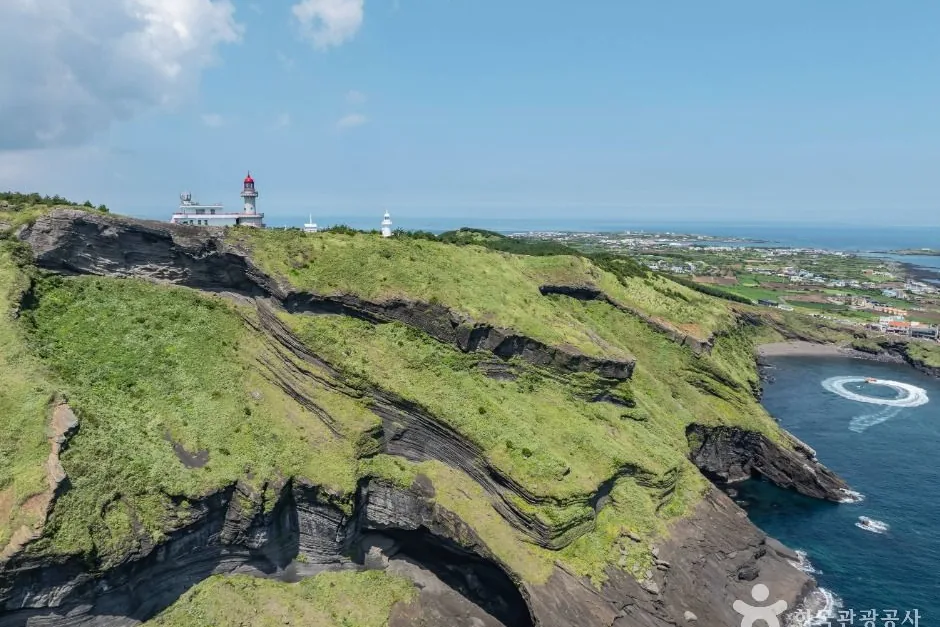
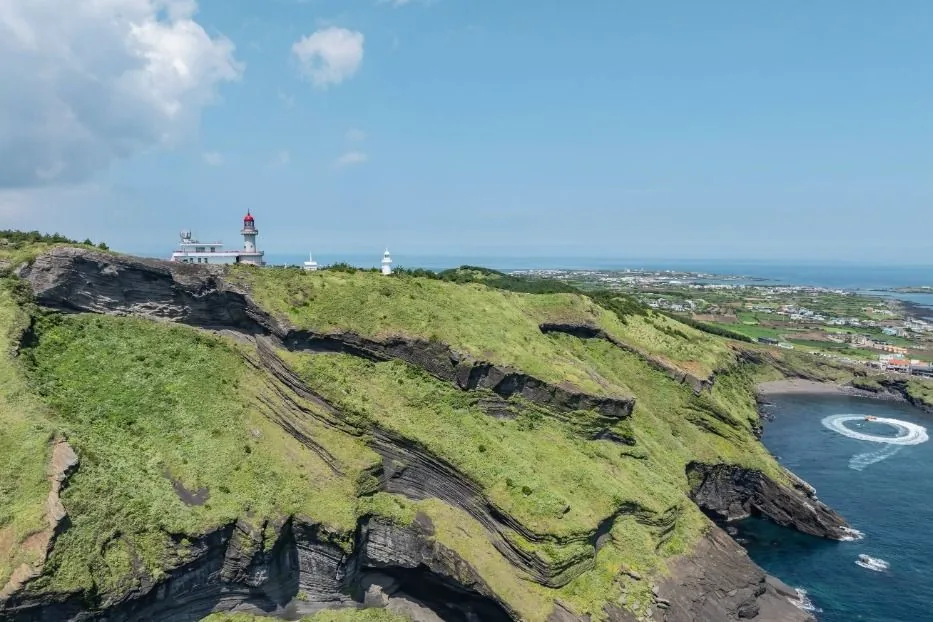
엽서 사진 20장을 새로 받은 사진으로 다시 넣기
- 사용자가 준 새 폴더(한경_제주도/웹진/3팀웹진이미지 모음)의 사진을 같은 방식(3:2, 폭 1200px까지, webp 82)으로
  - 대부분 한국관광공사 로고 부분이 잘려 나간 사진, 08·09는 워터마크가 지워진 PNG
  - 06은 다른 사진(방파제 위 하얀 말 등대): 말 등대가 들어가게 잘랐고 사진 설명(alt)도 바꿈
  - 02·03·05·17·20은 같은 파일이라 결과도 같음
- 같은 이름이라 data-photo 주소에 ?v=2 (휴대폰 캐시)
- credits.txt: 새 파일 설명으로 고침. 저작권·사용 조건은 여전히 확인 필요

diff --git a/public/index.html b/public/index.html
@@ -192,26 +192,26 @@
            누르면 팝업으로 크게 보인다. 사진을 받기 전까지는 무늬가 그림 자리를 채운다 -->
       <div class="pick__cards">
       <div class="pick__world">
-          <button class="pcard pcard--post pcard--d01" type="button" data-no="01" data-place="구두미포구" data-why="스노쿨링하기 좋아요" data-word="이주까지 가기 전에, 먼저 제주살이를 경험해보는 걸 추천해요." data-photo="images/postcard-01.webp" data-photo-alt="구두미포구: 작은 배들이 떠 있는 포구에서 사람들이 물놀이를 하고, 멀리 섬이 보인다" aria-label="제주생존한마디 01 · 구두미포구 엽서 열기"><span class="pcard__label" aria-hidden="true">이주민의 한 문장</span><span class="pcard__word" aria-hidden="true">이주까지 가기 전에, 먼저 제주살이를 경험해보는 걸 추천해요.</span></button>
-          <button class="pcard pcard--post pcard--d02" type="button" data-no="02" data-place="비양도" data-why="어려움이 있을 때 조용한 섬에서 시간을 보내면 마음이 편안해져요" data-word="현실적인 부분을 충분히 준비한다면 계획했던 로망을 실현하며 만족도 높은 제주살이를 할 수 있어요." data-photo="images/postcard-02.webp" data-photo-alt="파도치는 바다 너머로 보이는 비양도" aria-label="제주생존한마디 02 · 비양도 엽서 열기"><span class="pcard__label" aria-hidden="true">이주민의 한 문장</span><span class="pcard__word" aria-hidden="true">현실적인 부분을 충분히 준비한다면 계획했던 로망을 실현하며 만족도 높은 제주살이를 할 수 있어요.</span></button>
-          <button class="pcard pcard--post pcard--d03" type="button" data-no="03" data-place="협재해수욕장" data-why="가족과 다 같이 산책하며 힐링하는 장소예요" data-word="혼자라면 외로울 수 있지만, 가족과 함께이고 도시를 좋아하지 않는 사람이라면 행복하게 살 수 있는 곳이에요. 인프라는 부족해도 그만큼 자연이 있고, 강아지와 살기에도 좋아요." data-photo="images/postcard-03.webp" data-photo-alt="하늘에서 내려다본 협재해수욕장의 옥빛 바다와 하얀 모래사장" aria-label="제주생존한마디 03 · 협재해수욕장 엽서 열기"><span class="pcard__label" aria-hidden="true">이주민의 한 문장</span><span class="pcard__word" aria-hidden="true">혼자라면 외로울 수 있지만, 가족과 함께이고 도시를 좋아하지 않는 사람이라면 행복하게 살 수 있는 곳이에요. 인프라는 부족해도 그만큼 자연이 있고, 강아지와 살기에도 좋아요.</span></button>
-          <button class="pcard pcard--post pcard--d04" type="button" data-no="04" data-place="신창풍차해안도로" data-why="노을과 풍차, 바다를 함께 즐길 수 있는 명소예요 (오징어도 팔아요!)" data-word="이주를 결정하기 전에 먼저 내려와서 지내보는 걸 추천해요." data-photo="images/postcard-04.webp" data-photo-alt="하늘에서 내려다본 신창풍차해안도로: 바다 위에 풍차가 줄지어 서 있다" aria-label="제주생존한마디 04 · 신창풍차해안도로 엽서 열기"><span class="pcard__label" aria-hidden="true">이주민의 한 문장</span><span class="pcard__word" aria-hidden="true">이주를 결정하기 전에 먼저 내려와서 지내보는 걸 추천해요.</span></button>
-          <button class="pcard pcard--post pcard--d05" type="button" data-no="05" data-place="평화로" data-why="아침저녁 출근길 풍경이 아름다워서 하루의 시작과 끝이 즐거워요" data-word="고민하는 시간보다 일단 실행해보는 게 더 중요해요." data-photo="images/postcard-05.webp" data-photo-alt="평화로: 단풍 든 나무 사이로 굽어 가는 도로, 멀리 산이 보인다" aria-label="제주생존한마디 05 · 평화로 엽서 열기"><span class="pcard__label" aria-hidden="true">이주민의 한 문장</span><span class="pcard__word" aria-hidden="true">고민하는 시간보다 일단 실행해보는 게 더 중요해요.</span></button>
-          <button class="pcard pcard--post pcard--d06" type="button" data-no="06" data-place="이호테우" data-why="처음 일을 시작했던 곳이자 로망 실현의 첫 시작이었어요" data-word="외로움을 많이 타지 않고 직장생활에 큰 야망이 있는 게 아니라면, 제주살이를 잘 즐기실 수 있을 것 같아요." data-photo="images/postcard-06.webp" data-photo-alt="이호테우해변의 모래사장과 파란 바다, 빨간 등대" aria-label="제주생존한마디 06 · 이호테우 엽서 열기"><span class="pcard__label" aria-hidden="true">이주민의 한 문장</span><span class="pcard__word" aria-hidden="true">외로움을 많이 타지 않고 직장생활에 큰 야망이 있는 게 아니라면, 제주살이를 잘 즐기실 수 있을 것 같아요.</span></button>
-          <button class="pcard pcard--post pcard--d07" type="button" data-no="07" data-place="우도" data-why="너무 아름다운 풍경" data-word="버킷리스트였던 제주살이를 이뤘고, 정말 만족스러워요." data-photo="images/postcard-07.webp" data-photo-alt="하늘에서 내려다본 우도의 초록 언덕과 바닷가 절벽, 하얀 등대" aria-label="제주생존한마디 07 · 우도 엽서 열기"><span class="pcard__label" aria-hidden="true">이주민의 한 문장</span><span class="pcard__word" aria-hidden="true">버킷리스트였던 제주살이를 이뤘고, 정말 만족스러워요.</span></button>
-          <button class="pcard pcard--post pcard--d08" type="button" data-no="08" data-place="다랑쉬오름" data-why="한눈에 보이는 제주와 바다의 전경을 보며 공허한 마음에 큰 위안을 느꼈어요" data-word="고민만 하지 말고 일단 와보세요. 와서 지내다 보면 어떻게든 살아져요." data-photo="images/postcard-08.webp" data-photo-alt="다랑쉬오름 위에서 내려다본 초록 분화구와 들판" aria-label="제주생존한마디 08 · 다랑쉬오름 엽서 열기"><span class="pcard__label" aria-hidden="true">이주민의 한 문장</span><span class="pcard__word" aria-hidden="true">고민만 하지 말고 일단 와보세요. 와서 지내다 보면 어떻게든 살아져요.</span></button>
-          <button class="pcard pcard--post pcard--d09" type="button" data-no="09" data-place="이호테우해변" data-why="제주 생활을 시작하고 정착하는 데 도움을 받은 장소예요" data-word="이주 전에 한 달 살기를 먼저 해보는 걸 추천해요." data-photo="images/postcard-09.webp" data-photo-alt="이호테우해변의 빨간 말 등대와 하얀 말 등대" aria-label="제주생존한마디 09 · 이호테우해변 엽서 열기"><span class="pcard__label" aria-hidden="true">이주민의 한 문장</span><span class="pcard__word" aria-hidden="true">이주 전에 한 달 살기를 먼저 해보는 걸 추천해요.</span></button>
-          <button class="pcard pcard--post pcard--d10" type="button" data-no="10" data-place="사계" data-why="처음 제주에 와 살아본, 고향 같은 곳이에요" data-word="무언가를 내려놓을 용기만 있다면 제주살이는 충분히 시작할 수 있어요." data-photo="images/postcard-10.webp" data-photo-alt="사계: 하늘에서 내려다본 바닷가의 커다란 오름과 숲" aria-label="제주생존한마디 10 · 사계 엽서 열기"><span class="pcard__label" aria-hidden="true">이주민의 한 문장</span><span class="pcard__word" aria-hidden="true">무언가를 내려놓을 용기만 있다면 제주살이는 충분히 시작할 수 있어요.</span></button>
-          <button class="pcard pcard--post pcard--d11" type="button" data-no="11" data-place="우도" data-why="좋은 사람들과 함께한 추억이 많은 곳이에요" data-word="사람마다 맞고 안 맞는 게 달라서, 짧은 시간이라도 직접 와서 경험해보는 걸 추천해요." data-photo="images/postcard-11.webp" data-photo-alt="하늘에서 내려다본 우도 바닷가: 작은 섬과 마을이 다리로 이어져 있다" aria-label="제주생존한마디 11 · 우도 엽서 열기"><span class="pcard__label" aria-hidden="true">이주민의 한 문장</span><span class="pcard__word" aria-hidden="true">사람마다 맞고 안 맞는 게 달라서, 짧은 시간이라도 직접 와서 경험해보는 걸 추천해요.</span></button>
-          <button class="pcard pcard--post pcard--d12" type="button" data-no="12" data-place="대정 노을해안로" data-why="제주에 처음 내려와 가장 예쁜 노을을 보고 마음이 치유되는 느낌이었어요. 아직도 마음에 품고 있는 곳이에요" data-word="현실적인 부분, 특히 경제적인 측면을 먼저 꼼꼼히 따져보고 이주하길 바라요." data-photo="images/postcard-12.webp" data-photo-alt="대정 노을해안로 앞바다: 검은 바위에 부서지는 파도 너머로 돌고래들이 헤엄친다" aria-label="제주생존한마디 12 · 대정 노을해안로 엽서 열기"><span class="pcard__label" aria-hidden="true">이주민의 한 문장</span><span class="pcard__word" aria-hidden="true">현실적인 부분, 특히 경제적인 측면을 먼저 꼼꼼히 따져보고 이주하길 바라요.</span></button>
-          <button class="pcard pcard--post pcard--d13" type="button" data-no="13" data-place="해안도로 산책길" data-why="고요하게 걷는 길이 평화롭게 해줬어요" data-word="이주는 지역이나 국가가 달라도 결국 일상을 다시 구성하는 일이에요. 뚜렷한 주관과 생활력만 있다면 제주 생활도 다른 지방도시와 크게 다르지 않게 느껴질 거예요." data-photo="images/postcard-13.webp" data-photo-alt="하얀 모래와 검은 현무암 바닷가를 따라 난 해안도로 산책길" aria-label="제주생존한마디 13 · 해안도로 산책길 엽서 열기"><span class="pcard__label" aria-hidden="true">이주민의 한 문장</span><span class="pcard__word" aria-hidden="true">이주는 지역이나 국가가 달라도 결국 일상을 다시 구성하는 일이에요. 뚜렷한 주관과 생활력만 있다면 제주 생활도 다른 지방도시와 크게 다르지 않게 느껴질 거예요.</span></button>
-          <button class="pcard pcard--post pcard--d14" type="button" data-no="14" data-place="보목포구" data-why="다이빙, 러닝하는 사람들을 보면 일상과 관광 그 어딘가의 낭만이 느껴져요" data-word="기후, 사람, 생활 모든 게 일상이 되는 순간 달라지니, 먼저 경험해보고 결정하는 걸 추천해요." data-photo="images/postcard-14.webp" data-photo-alt="보목포구 방파제의 빨간 등대와 바다 건너 초록 섬" aria-label="제주생존한마디 14 · 보목포구 엽서 열기"><span class="pcard__label" aria-hidden="true">이주민의 한 문장</span><span class="pcard__word" aria-hidden="true">기후, 사람, 생활 모든 게 일상이 되는 순간 달라지니, 먼저 경험해보고 결정하는 걸 추천해요.</span></button>
-          <button class="pcard pcard--post pcard--d15" type="button" data-no="15" data-place="표선해수욕장" data-why="나 자신이 콘텐츠가 되는 사람들의 천국이에요" data-word="제주에서 만나는 사람들은 상상 그 이상이에요." data-photo="images/postcard-15.webp" data-photo-alt="표선해수욕장의 넓은 모래사장과 얕은 바다, 구름 낀 하늘" aria-label="제주생존한마디 15 · 표선해수욕장 엽서 열기"><span class="pcard__label" aria-hidden="true">이주민의 한 문장</span><span class="pcard__word" aria-hidden="true">제주에서 만나는 사람들은 상상 그 이상이에요.</span></button>
-          <button class="pcard pcard--post pcard--d16" type="button" data-no="16" data-place="김녕 바다 (해수욕장 가기 전)" data-why="힘들고 외로울 때마다 가서 바다멍을 하며 버텼고, 해녀 삼춘들을 보며 꿈을 키웠어요" data-word="적당한 환상과 낭만을 갖고, 직장이든 집이든 준비해서 오세요. 육지에서의 기준은 내려놓으세요. 임금은 싸고 물가는 비싸고 즐길거리는 적지만, 현실과 타협하며 버티다 보면 육지에선 못 하는 진짜 제주를 만날 수 있어요." data-photo="images/postcard-16.webp" data-photo-alt="하늘에서 내려다본 김녕 바닷가 마을과 해변" aria-label="제주생존한마디 16 · 김녕 바다 (해수욕장 가기 전) 엽서 열기"><span class="pcard__label" aria-hidden="true">이주민의 한 문장</span><span class="pcard__word" aria-hidden="true">적당한 환상과 낭만을 갖고, 직장이든 집이든 준비해서 오세요. 육지에서의 기준은 내려놓으세요. 임금은 싸고 물가는 비싸고 즐길거리는 적지만, 현실과 타협하며 버티다 보면 육지에선 못 하는 진짜 제주를 만날 수 있어요.</span></button>
-          <button class="pcard pcard--post pcard--d17" type="button" data-no="17" data-place="송악산" data-why="노을" data-word="여행으로 보는 제주와 살아가는 제주는 다르다는 점을 알고 결정하세요." data-photo="images/postcard-17.webp" data-photo-alt="송악산 언덕에서 바라본 초록 비탈과 파란 바다" aria-label="제주생존한마디 17 · 송악산 엽서 열기"><span class="pcard__label" aria-hidden="true">이주민의 한 문장</span><span class="pcard__word" aria-hidden="true">여행으로 보는 제주와 살아가는 제주는 다르다는 점을 알고 결정하세요.</span></button>
-          <button class="pcard pcard--post pcard--d18" type="button" data-no="18" data-place="가파도" data-why="섬 자체가 정말 아름다워요" data-word="일자리를 확보하고 내려오고, 제주에서 경제적으로 어렵게 지내지 않도록 준비하세요." data-photo="images/postcard-18.webp" data-photo-alt="잔잔한 바다 위에 낮게 떠 있는 가파도" aria-label="제주생존한마디 18 · 가파도 엽서 열기"><span class="pcard__label" aria-hidden="true">이주민의 한 문장</span><span class="pcard__word" aria-hidden="true">일자리를 확보하고 내려오고, 제주에서 경제적으로 어렵게 지내지 않도록 준비하세요.</span></button>
-          <button class="pcard pcard--post pcard--d19" type="button" data-no="19" data-place="엉또폭포" data-why="폭포가 터지기 전의 긴장감과 기다림, 조금씩 흘러내리다 터졌을 때의 신비로움이 있어요" data-word="경제적 여건이 충분하지 않거나 이곳에서 사업을 할 계획이라면 다시 한번 생각해보세요. 떠나는 사람도 많이 봤고, 병원 인프라는 아쉬워요." data-photo="images/postcard-19.webp" data-photo-alt="울창한 숲 사이로 하얗게 떨어지는 엉또폭포" aria-label="제주생존한마디 19 · 엉또폭포 엽서 열기"><span class="pcard__label" aria-hidden="true">이주민의 한 문장</span><span class="pcard__word" aria-hidden="true">경제적 여건이 충분하지 않거나 이곳에서 사업을 할 계획이라면 다시 한번 생각해보세요. 떠나는 사람도 많이 봤고, 병원 인프라는 아쉬워요.</span></button>
-          <button class="pcard pcard--post pcard--d20" type="button" data-no="20" data-place="성산일출봉" data-why="이별과 퇴사 후 처음 찾은 곳이에요. 오르면서 잡생각이 사라지고 풍경에 반해 이주까지 했어요" data-word="고민만 하기보다 도전해봐도 괜찮은 도시예요 :)" data-photo="images/postcard-20.webp" data-photo-alt="풀밭에서 풀을 뜯는 말과 그 뒤로 보이는 성산일출봉" aria-label="제주생존한마디 20 · 성산일출봉 엽서 열기"><span class="pcard__label" aria-hidden="true">이주민의 한 문장</span><span class="pcard__word" aria-hidden="true">고민만 하기보다 도전해봐도 괜찮은 도시예요 :)</span></button>
+          <button class="pcard pcard--post pcard--d01" type="button" data-no="01" data-place="구두미포구" data-why="스노쿨링하기 좋아요" data-word="이주까지 가기 전에, 먼저 제주살이를 경험해보는 걸 추천해요." data-photo="images/postcard-01.webp?v=2" data-photo-alt="구두미포구: 작은 배들이 떠 있는 포구에서 사람들이 물놀이를 하고, 멀리 섬이 보인다" aria-label="제주생존한마디 01 · 구두미포구 엽서 열기"><span class="pcard__label" aria-hidden="true">이주민의 한 문장</span><span class="pcard__word" aria-hidden="true">이주까지 가기 전에, 먼저 제주살이를 경험해보는 걸 추천해요.</span></button>
+          <button class="pcard pcard--post pcard--d02" type="button" data-no="02" data-place="비양도" data-why="어려움이 있을 때 조용한 섬에서 시간을 보내면 마음이 편안해져요" data-word="현실적인 부분을 충분히 준비한다면 계획했던 로망을 실현하며 만족도 높은 제주살이를 할 수 있어요." data-photo="images/postcard-02.webp?v=2" data-photo-alt="파도치는 바다 너머로 보이는 비양도" aria-label="제주생존한마디 02 · 비양도 엽서 열기"><span class="pcard__label" aria-hidden="true">이주민의 한 문장</span><span class="pcard__word" aria-hidden="true">현실적인 부분을 충분히 준비한다면 계획했던 로망을 실현하며 만족도 높은 제주살이를 할 수 있어요.</span></button>
+          <button class="pcard pcard--post pcard--d03" type="button" data-no="03" data-place="협재해수욕장" data-why="가족과 다 같이 산책하며 힐링하는 장소예요" data-word="혼자라면 외로울 수 있지만, 가족과 함께이고 도시를 좋아하지 않는 사람이라면 행복하게 살 수 있는 곳이에요. 인프라는 부족해도 그만큼 자연이 있고, 강아지와 살기에도 좋아요." data-photo="images/postcard-03.webp?v=2" data-photo-alt="하늘에서 내려다본 협재해수욕장의 옥빛 바다와 하얀 모래사장" aria-label="제주생존한마디 03 · 협재해수욕장 엽서 열기"><span class="pcard__label" aria-hidden="true">이주민의 한 문장</span><span class="pcard__word" aria-hidden="true">혼자라면 외로울 수 있지만, 가족과 함께이고 도시를 좋아하지 않는 사람이라면 행복하게 살 수 있는 곳이에요. 인프라는 부족해도 그만큼 자연이 있고, 강아지와 살기에도 좋아요.</span></button>
+          <button class="pcard pcard--post pcard--d04" type="button" data-no="04" data-place="신창풍차해안도로" data-why="노을과 풍차, 바다를 함께 즐길 수 있는 명소예요 (오징어도 팔아요!)" data-word="이주를 결정하기 전에 먼저 내려와서 지내보는 걸 추천해요." data-photo="images/postcard-04.webp?v=2" data-photo-alt="하늘에서 내려다본 신창풍차해안도로: 바다 위에 풍차가 줄지어 서 있다" aria-label="제주생존한마디 04 · 신창풍차해안도로 엽서 열기"><span class="pcard__label" aria-hidden="true">이주민의 한 문장</span><span class="pcard__word" aria-hidden="true">이주를 결정하기 전에 먼저 내려와서 지내보는 걸 추천해요.</span></button>
+          <button class="pcard pcard--post pcard--d05" type="button" data-no="05" data-place="평화로" data-why="아침저녁 출근길 풍경이 아름다워서 하루의 시작과 끝이 즐거워요" data-word="고민하는 시간보다 일단 실행해보는 게 더 중요해요." data-photo="images/postcard-05.webp?v=2" data-photo-alt="평화로: 단풍 든 나무 사이로 굽어 가는 도로, 멀리 산이 보인다" aria-label="제주생존한마디 05 · 평화로 엽서 열기"><span class="pcard__label" aria-hidden="true">이주민의 한 문장</span><span class="pcard__word" aria-hidden="true">고민하는 시간보다 일단 실행해보는 게 더 중요해요.</span></button>
+          <button class="pcard pcard--post pcard--d06" type="button" data-no="06" data-place="이호테우" data-why="처음 일을 시작했던 곳이자 로망 실현의 첫 시작이었어요" data-word="외로움을 많이 타지 않고 직장생활에 큰 야망이 있는 게 아니라면, 제주살이를 잘 즐기실 수 있을 것 같아요." data-photo="images/postcard-06.webp?v=2" data-photo-alt="이호테우해변 방파제 위에 선 하얀 말 등대와 파란 바다" aria-label="제주생존한마디 06 · 이호테우 엽서 열기"><span class="pcard__label" aria-hidden="true">이주민의 한 문장</span><span class="pcard__word" aria-hidden="true">외로움을 많이 타지 않고 직장생활에 큰 야망이 있는 게 아니라면, 제주살이를 잘 즐기실 수 있을 것 같아요.</span></button>
+          <button class="pcard pcard--post pcard--d07" type="button" data-no="07" data-place="우도" data-why="너무 아름다운 풍경" data-word="버킷리스트였던 제주살이를 이뤘고, 정말 만족스러워요." data-photo="images/postcard-07.webp?v=2" data-photo-alt="하늘에서 내려다본 우도의 초록 언덕과 바닷가 절벽, 하얀 등대" aria-label="제주생존한마디 07 · 우도 엽서 열기"><span class="pcard__label" aria-hidden="true">이주민의 한 문장</span><span class="pcard__word" aria-hidden="true">버킷리스트였던 제주살이를 이뤘고, 정말 만족스러워요.</span></button>
+          <button class="pcard pcard--post pcard--d08" type="button" data-no="08" data-place="다랑쉬오름" data-why="한눈에 보이는 제주와 바다의 전경을 보며 공허한 마음에 큰 위안을 느꼈어요" data-word="고민만 하지 말고 일단 와보세요. 와서 지내다 보면 어떻게든 살아져요." data-photo="images/postcard-08.webp?v=2" data-photo-alt="다랑쉬오름 위에서 내려다본 초록 분화구와 들판" aria-label="제주생존한마디 08 · 다랑쉬오름 엽서 열기"><span class="pcard__label" aria-hidden="true">이주민의 한 문장</span><span class="pcard__word" aria-hidden="true">고민만 하지 말고 일단 와보세요. 와서 지내다 보면 어떻게든 살아져요.</span></button>
+          <button class="pcard pcard--post pcard--d09" type="button" data-no="09" data-place="이호테우해변" data-why="제주 생활을 시작하고 정착하는 데 도움을 받은 장소예요" data-word="이주 전에 한 달 살기를 먼저 해보는 걸 추천해요." data-photo="images/postcard-09.webp?v=2" data-photo-alt="이호테우해변의 빨간 말 등대와 하얀 말 등대" aria-label="제주생존한마디 09 · 이호테우해변 엽서 열기"><span class="pcard__label" aria-hidden="true">이주민의 한 문장</span><span class="pcard__word" aria-hidden="true">이주 전에 한 달 살기를 먼저 해보는 걸 추천해요.</span></button>
+          <button class="pcard pcard--post pcard--d10" type="button" data-no="10" data-place="사계" data-why="처음 제주에 와 살아본, 고향 같은 곳이에요" data-word="무언가를 내려놓을 용기만 있다면 제주살이는 충분히 시작할 수 있어요." data-photo="images/postcard-10.webp?v=2" data-photo-alt="사계: 하늘에서 내려다본 바닷가의 커다란 오름과 숲" aria-label="제주생존한마디 10 · 사계 엽서 열기"><span class="pcard__label" aria-hidden="true">이주민의 한 문장</span><span class="pcard__word" aria-hidden="true">무언가를 내려놓을 용기만 있다면 제주살이는 충분히 시작할 수 있어요.</span></button>
+          <button class="pcard pcard--post pcard--d11" type="button" data-no="11" data-place="우도" data-why="좋은 사람들과 함께한 추억이 많은 곳이에요" data-word="사람마다 맞고 안 맞는 게 달라서, 짧은 시간이라도 직접 와서 경험해보는 걸 추천해요." data-photo="images/postcard-11.webp?v=2" data-photo-alt="하늘에서 내려다본 우도 바닷가: 작은 섬과 마을이 다리로 이어져 있다" aria-label="제주생존한마디 11 · 우도 엽서 열기"><span class="pcard__label" aria-hidden="true">이주민의 한 문장</span><span class="pcard__word" aria-hidden="true">사람마다 맞고 안 맞는 게 달라서, 짧은 시간이라도 직접 와서 경험해보는 걸 추천해요.</span></button>
+          <button class="pcard pcard--post pcard--d12" type="button" data-no="12" data-place="대정 노을해안로" data-why="제주에 처음 내려와 가장 예쁜 노을을 보고 마음이 치유되는 느낌이었어요. 아직도 마음에 품고 있는 곳이에요" data-word="현실적인 부분, 특히 경제적인 측면을 먼저 꼼꼼히 따져보고 이주하길 바라요." data-photo="images/postcard-12.webp?v=2" data-photo-alt="대정 노을해안로 앞바다: 검은 바위에 부서지는 파도 너머로 돌고래들이 헤엄친다" aria-label="제주생존한마디 12 · 대정 노을해안로 엽서 열기"><span class="pcard__label" aria-hidden="true">이주민의 한 문장</span><span class="pcard__word" aria-hidden="true">현실적인 부분, 특히 경제적인 측면을 먼저 꼼꼼히 따져보고 이주하길 바라요.</span></button>
+          <button class="pcard pcard--post pcard--d13" type="button" data-no="13" data-place="해안도로 산책길" data-why="고요하게 걷는 길이 평화롭게 해줬어요" data-word="이주는 지역이나 국가가 달라도 결국 일상을 다시 구성하는 일이에요. 뚜렷한 주관과 생활력만 있다면 제주 생활도 다른 지방도시와 크게 다르지 않게 느껴질 거예요." data-photo="images/postcard-13.webp?v=2" data-photo-alt="하얀 모래와 검은 현무암 바닷가를 따라 난 해안도로 산책길" aria-label="제주생존한마디 13 · 해안도로 산책길 엽서 열기"><span class="pcard__label" aria-hidden="true">이주민의 한 문장</span><span class="pcard__word" aria-hidden="true">이주는 지역이나 국가가 달라도 결국 일상을 다시 구성하는 일이에요. 뚜렷한 주관과 생활력만 있다면 제주 생활도 다른 지방도시와 크게 다르지 않게 느껴질 거예요.</span></button>
+          <button class="pcard pcard--post pcard--d14" type="button" data-no="14" data-place="보목포구" data-why="다이빙, 러닝하는 사람들을 보면 일상과 관광 그 어딘가의 낭만이 느껴져요" data-word="기후, 사람, 생활 모든 게 일상이 되는 순간 달라지니, 먼저 경험해보고 결정하는 걸 추천해요." data-photo="images/postcard-14.webp?v=2" data-photo-alt="보목포구 방파제의 빨간 등대와 바다 건너 초록 섬" aria-label="제주생존한마디 14 · 보목포구 엽서 열기"><span class="pcard__label" aria-hidden="true">이주민의 한 문장</span><span class="pcard__word" aria-hidden="true">기후, 사람, 생활 모든 게 일상이 되는 순간 달라지니, 먼저 경험해보고 결정하는 걸 추천해요.</span></button>
+          <button class="pcard pcard--post pcard--d15" type="button" data-no="15" data-place="표선해수욕장" data-why="나 자신이 콘텐츠가 되는 사람들의 천국이에요" data-word="제주에서 만나는 사람들은 상상 그 이상이에요." data-photo="images/postcard-15.webp?v=2" data-photo-alt="표선해수욕장의 넓은 모래사장과 얕은 바다, 구름 낀 하늘" aria-label="제주생존한마디 15 · 표선해수욕장 엽서 열기"><span class="pcard__label" aria-hidden="true">이주민의 한 문장</span><span class="pcard__word" aria-hidden="true">제주에서 만나는 사람들은 상상 그 이상이에요.</span></button>
+          <button class="pcard pcard--post pcard--d16" type="button" data-no="16" data-place="김녕 바다 (해수욕장 가기 전)" data-why="힘들고 외로울 때마다 가서 바다멍을 하며 버텼고, 해녀 삼춘들을 보며 꿈을 키웠어요" data-word="적당한 환상과 낭만을 갖고, 직장이든 집이든 준비해서 오세요. 육지에서의 기준은 내려놓으세요. 임금은 싸고 물가는 비싸고 즐길거리는 적지만, 현실과 타협하며 버티다 보면 육지에선 못 하는 진짜 제주를 만날 수 있어요." data-photo="images/postcard-16.webp?v=2" data-photo-alt="하늘에서 내려다본 김녕 바닷가 마을과 해변" aria-label="제주생존한마디 16 · 김녕 바다 (해수욕장 가기 전) 엽서 열기"><span class="pcard__label" aria-hidden="true">이주민의 한 문장</span><span class="pcard__word" aria-hidden="true">적당한 환상과 낭만을 갖고, 직장이든 집이든 준비해서 오세요. 육지에서의 기준은 내려놓으세요. 임금은 싸고 물가는 비싸고 즐길거리는 적지만, 현실과 타협하며 버티다 보면 육지에선 못 하는 진짜 제주를 만날 수 있어요.</span></button>
+          <button class="pcard pcard--post pcard--d17" type="button" data-no="17" data-place="송악산" data-why="노을" data-word="여행으로 보는 제주와 살아가는 제주는 다르다는 점을 알고 결정하세요." data-photo="images/postcard-17.webp?v=2" data-photo-alt="송악산 언덕에서 바라본 초록 비탈과 파란 바다" aria-label="제주생존한마디 17 · 송악산 엽서 열기"><span class="pcard__label" aria-hidden="true">이주민의 한 문장</span><span class="pcard__word" aria-hidden="true">여행으로 보는 제주와 살아가는 제주는 다르다는 점을 알고 결정하세요.</span></button>
+          <button class="pcard pcard--post pcard--d18" type="button" data-no="18" data-place="가파도" data-why="섬 자체가 정말 아름다워요" data-word="일자리를 확보하고 내려오고, 제주에서 경제적으로 어렵게 지내지 않도록 준비하세요." data-photo="images/postcard-18.webp?v=2" data-photo-alt="잔잔한 바다 위에 낮게 떠 있는 가파도" aria-label="제주생존한마디 18 · 가파도 엽서 열기"><span class="pcard__label" aria-hidden="true">이주민의 한 문장</span><span class="pcard__word" aria-hidden="true">일자리를 확보하고 내려오고, 제주에서 경제적으로 어렵게 지내지 않도록 준비하세요.</span></button>
+          <button class="pcard pcard--post pcard--d19" type="button" data-no="19" data-place="엉또폭포" data-why="폭포가 터지기 전의 긴장감과 기다림, 조금씩 흘러내리다 터졌을 때의 신비로움이 있어요" data-word="경제적 여건이 충분하지 않거나 이곳에서 사업을 할 계획이라면 다시 한번 생각해보세요. 떠나는 사람도 많이 봤고, 병원 인프라는 아쉬워요." data-photo="images/postcard-19.webp?v=2" data-photo-alt="울창한 숲 사이로 하얗게 떨어지는 엉또폭포" aria-label="제주생존한마디 19 · 엉또폭포 엽서 열기"><span class="pcard__label" aria-hidden="true">이주민의 한 문장</span><span class="pcard__word" aria-hidden="true">경제적 여건이 충분하지 않거나 이곳에서 사업을 할 계획이라면 다시 한번 생각해보세요. 떠나는 사람도 많이 봤고, 병원 인프라는 아쉬워요.</span></button>
+          <button class="pcard pcard--post pcard--d20" type="button" data-no="20" data-place="성산일출봉" data-why="이별과 퇴사 후 처음 찾은 곳이에요. 오르면서 잡생각이 사라지고 풍경에 반해 이주까지 했어요" data-word="고민만 하기보다 도전해봐도 괜찮은 도시예요 :)" data-photo="images/postcard-20.webp?v=2" data-photo-alt="풀밭에서 풀을 뜯는 말과 그 뒤로 보이는 성산일출봉" aria-label="제주생존한마디 20 · 성산일출봉 엽서 열기"><span class="pcard__label" aria-hidden="true">이주민의 한 문장</span><span class="pcard__word" aria-hidden="true">고민만 하기보다 도전해봐도 괜찮은 도시예요 :)</span></button>
           <!-- 표지 엽서: 엽서가 다 모이면 맨 위로 떠오른다 (꾸밈용) -->
           <div class="pick__cover" aria-hidden="true"><span class="pick__cover-logo"></span><span class="pick__cover-text">살러 왔다, 살아남기</span></div>
       </div>

diff --git a/CLAUDE.md b/CLAUDE.md
@@ -246,11 +246,17 @@ ijejumin-webzine/
       - 처음엔 시안처럼 손글씨(나눔손글씨 펜)였는데, 사용자가 "가독성 좋게"를 요청해 둥근 고딕 굵게로 바꿨다 (2026-10-22)
       - **엽서 글을 바꾸면 글자를 다시 뽑아야 한다** (새 글자는 기본 글꼴로 보인다)
     - 엽서 비율은 그림과 같게(폭 ÷ 1.629) 맞췄다. 그림에 우표가 있어 따로 붙이던 우표와 흰 테두리는 뺐다
-  - 사진: 받은 사진(`웹진 엽서/3팀웹진이미지 모음/`) 20장을 3:2로 잘라 `images/postcard-01.webp`~`20`으로 넣었다 (2026-10-22)
+  - 사진: 받은 사진 20장을 3:2로(가운데 기준, 폭 1200px까지) 잘라 `images/postcard-01.webp`~`20`으로 넣었다
+    - 2026-10-23: 사용자가 준 새 폴더(`한경_제주도/웹진/3팀웹진이미지 모음/3팀웹진이미지 모음/`)의 사진으로 다시 넣었다
+      - 대부분 예전과 같은 사진에서 한국관광공사 로고 부분이 잘려 나간 것. 08·09는 워터마크가 지워진 1536×1024 PNG
+      - 06은 다른 사진(방파제 위 하얀 말 등대, 415×566 세로 사진)이라 말 등대가 들어가게 위에서 175px부터 잘랐다. 작아서 팝업에서 조금 흐릴 수 있다
+      - 02·03·05·17·20은 예전과 같은 파일이라 결과도 같다. 예전 사진은 바꾸기 전 커밋에 남아 있다
+      - 같은 이름으로 바꿔서 `index.html`의 `data-photo` 주소 끝에 `?v=2`를 붙였다 (휴대폰 캐시)
     - 사진은 팝업 그림면에만 나온다. 돌아가는 엽서 앞면은 무늬 그대로다 (사용자 요청)
       - 사진 주소와 설명(alt)은 엽서 버튼의 `data-photo`·`data-photo-alt`에 있다
       - 팝업 그림면에는 우표를 붙이지 않는다. 우표는 글쓰는 면에만 있다
-    - 20장 중 16장에 한국관광공사 워터마크가 있다. 공통 기준과 어긋나지만 사용자가 "워터마크 들어가 있는 사진으로 사용해줘"라고 해서 그대로 썼다
+    - 처음 받은 사진은 20장 중 16장에 한국관광공사 워터마크가 있었다 (사용자가 "워터마크 들어가 있는 사진으로 사용해줘"라고 해서 그대로 썼다).
+      새 사진에는 화면에 보이는 워터마크가 없다. 다만 워터마크가 빠져도 저작권은 그대로 원래 출처에 있다
     - 출처는 `credits.txt`에 적었지만, 라이선스와 원본 주소는 아직 "확인 필요"다
 
 ### 03 나의 제주찾기 (`.find`, #cat-3)
@@ -307,7 +313,8 @@ ijejumin-webzine/
 ## 올리기 전 확인할 것
 - [ ] `teamN` → 실제 팀 번호
 - [ ] 사진마다 출처와 초상권 동의 확인. 직접 찍지 않은 사진은 `credits.txt`에 적는다
-- [ ] 엽서 사진 `postcard-01`~`20`: 16장의 한국관광공사 워터마크(공통 기준 위반)를 어떻게 할지 정한다
+- [ ] 엽서 사진 `postcard-01`~`20`: 워터마크는 빠졌지만(새 사진, 2026-10-23) 한국관광공사 사진이라 사용 조건(공공누리 유형 등)을 확인해 `credits.txt`를 채운다
+  - 새 06은 어디서 온 사진인지 확인한다
   - 06·08·09는 사진 정보에 "All Right Reserved"(촬영 JI HO KIM)가 적혀 있다
   - 02·03·17·20은 누가 찍었는지 확인한다
   - `credits.txt`의 "확인 필요"를 채운다
